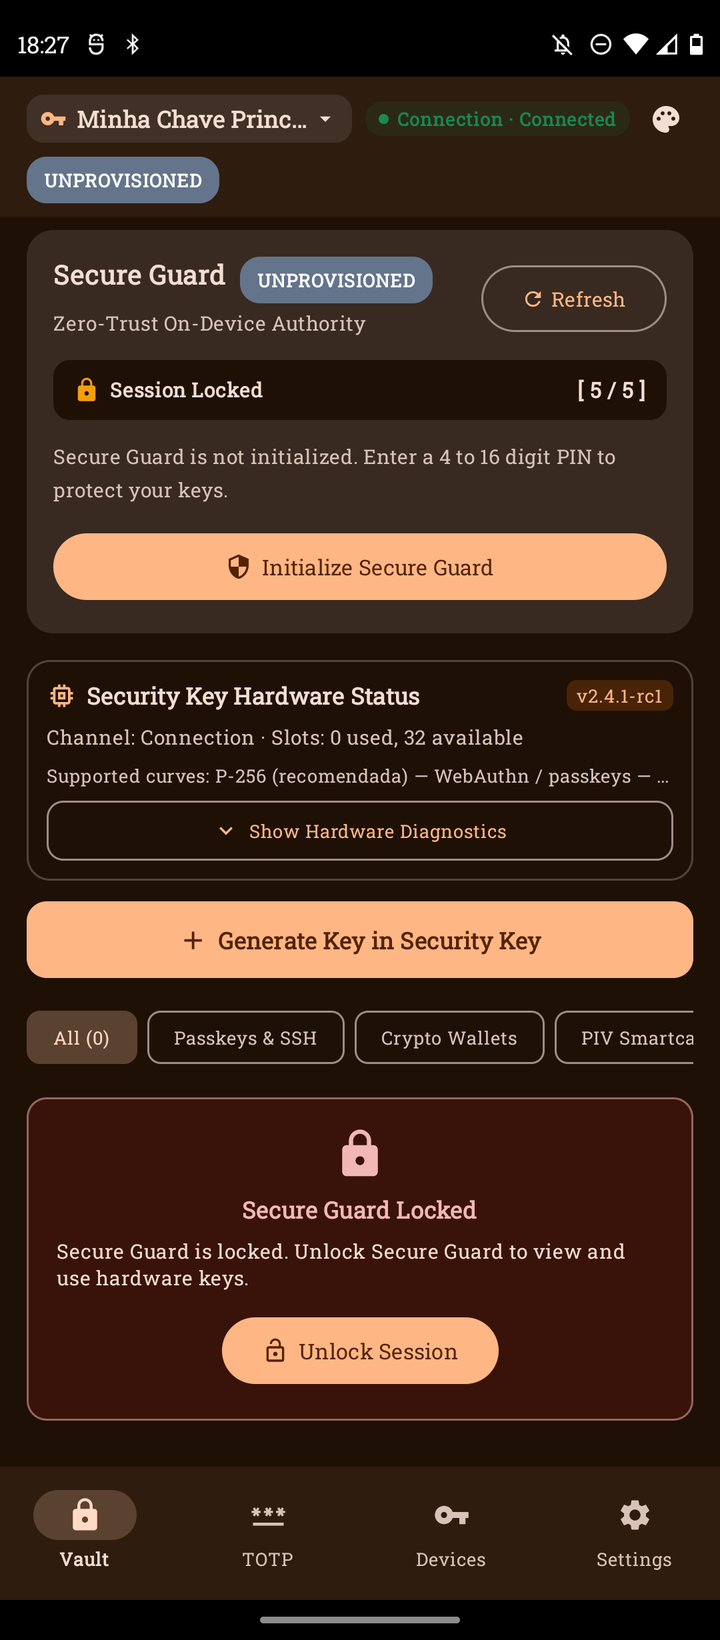
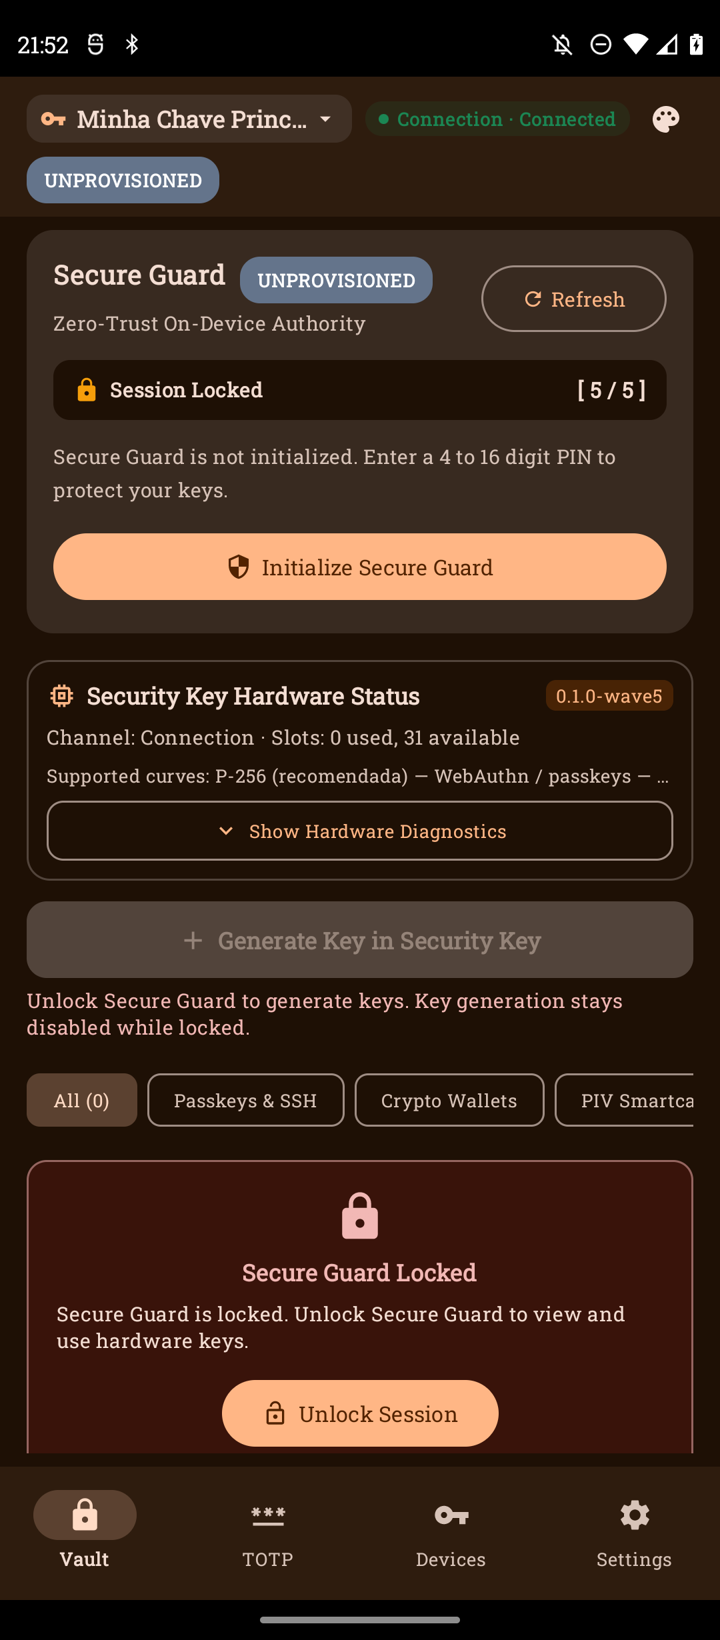
docs(manual): tour full ao vivo moto g(60) 3/17 PASS, STOP vault-create, PIV SKIP

diff --git a/docs/manual/MANUAL_USUARIO.md b/docs/manual/MANUAL_USUARIO.md
@@ -240,6 +240,36 @@ emergência guardado offline. Use somente em caso real de perda do PIN.
 - Botão `Abrir Painel OTA` sem resposta: ative a sessão antes e tente
   de novo. Não prossiga com flash sem orientação.
 
+## Nota de revisão — full ao vivo em telefone físico (2026-11-03)
+
+Comando: `python tools/manual_screenshots.py --full --serial
+192.168.15.17:38071` no `moto g(60)` físico, emulador desligado. APK
+reinstalado (`app-debug.apk`, SHA256 `75A1ED4A…`), `adb reverse
+tcp:5678`, ponte única `tools/host_hardware_android_bridge.py --port
+COM7` (`/bridge/info` `connected:true`, UART). PIN do dono via
+`MANUAL_TOUR_PIN` (uma tentativa correta, nunca registrada; zero
+tentativas erradas).
+
+Resultado: 3/17 PASS, 1 STOP, 13 SKIP (parada em cascata).
+
+- PASS `open`, `unlock-pin` (`UNLOCKED`), `vault-list`.
+- STOP `vault-create-tour`: rótulo descartável digitado aparece só no
+  `EditText`; a consulta de lista não contém `tour-*` (acerto
+  anti-falso-positivo) e o log da ponte mostra zero operação na placa
+  após o toque em `Generate Key` — toque sem efeito, nada criado.
+  Regra STOP respeitada: sem forçar, sem redigitar, sem nova tentativa
+  de PIN.
+- SKIP `vault-delete-tour`, `totp`, `caps`, `vault-diagnostics`,
+  `ota-view`, `rescue-audit`, `language-en`, `language-pt`, `lock`,
+  `recovery-view`, `keys-devices`, `piv-view`, `destructive-guard`
+  (não alcançados).
+- PIV: SKIP — correção `MainActivity.kt:248` (`onNavigateToPiv`)
+  NÃO verificada no aparelho neste ciclo (passo não alcançado).
+- Recuperação/OTA/destrutivos: intocados (nenhum tap). Diálogo de
+  criação dispensado com BACK; nenhum `tour-*` residual na placa.
+- Fotos novas/atualizadas em `docs/manual/img/` (largura ≤720):
+  `01_open_locked.png`, `02_unlock_pin.png`, `03_vault_list.png`.
+
 ## Nota de revisão — full click-through (2026-11-04)
 
 Roteiro `tools/manual_screenshots.py` agora tem modo `--full`: 17 passos
